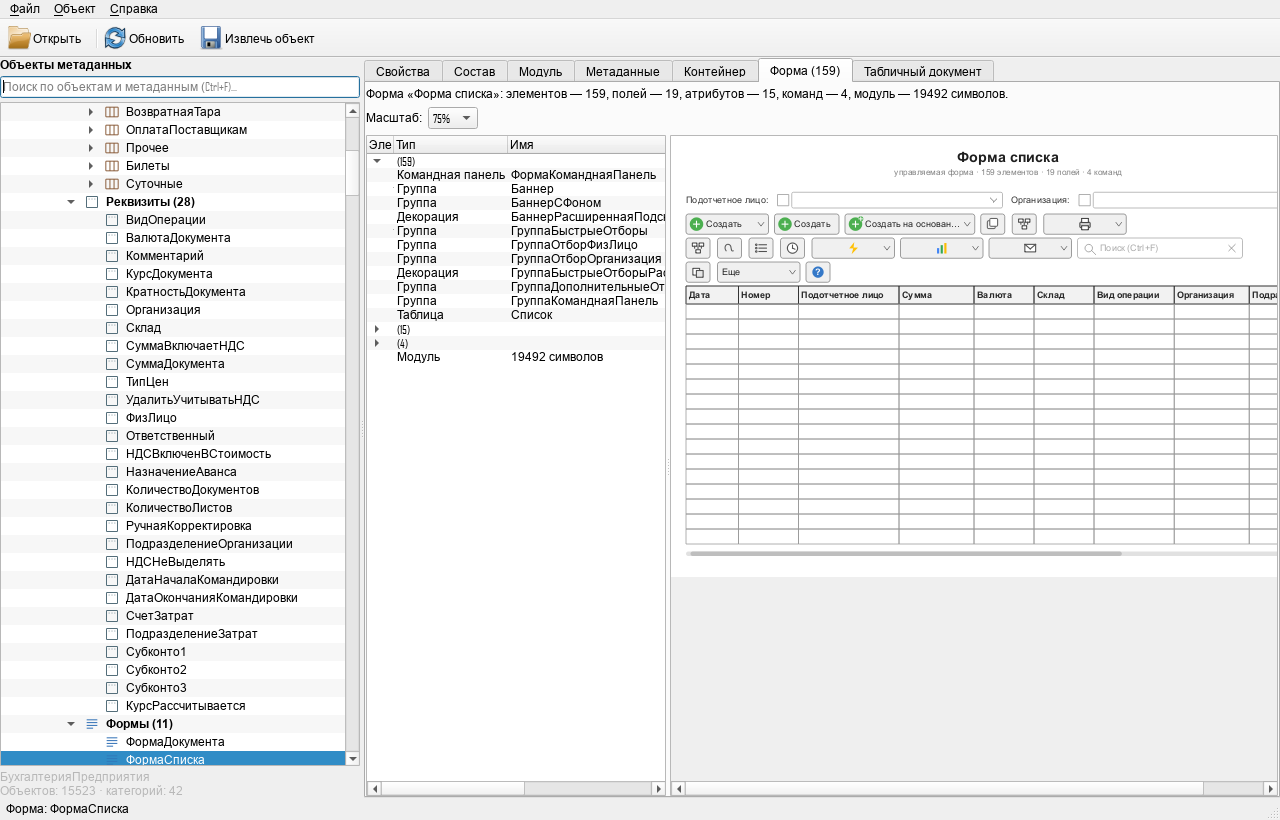
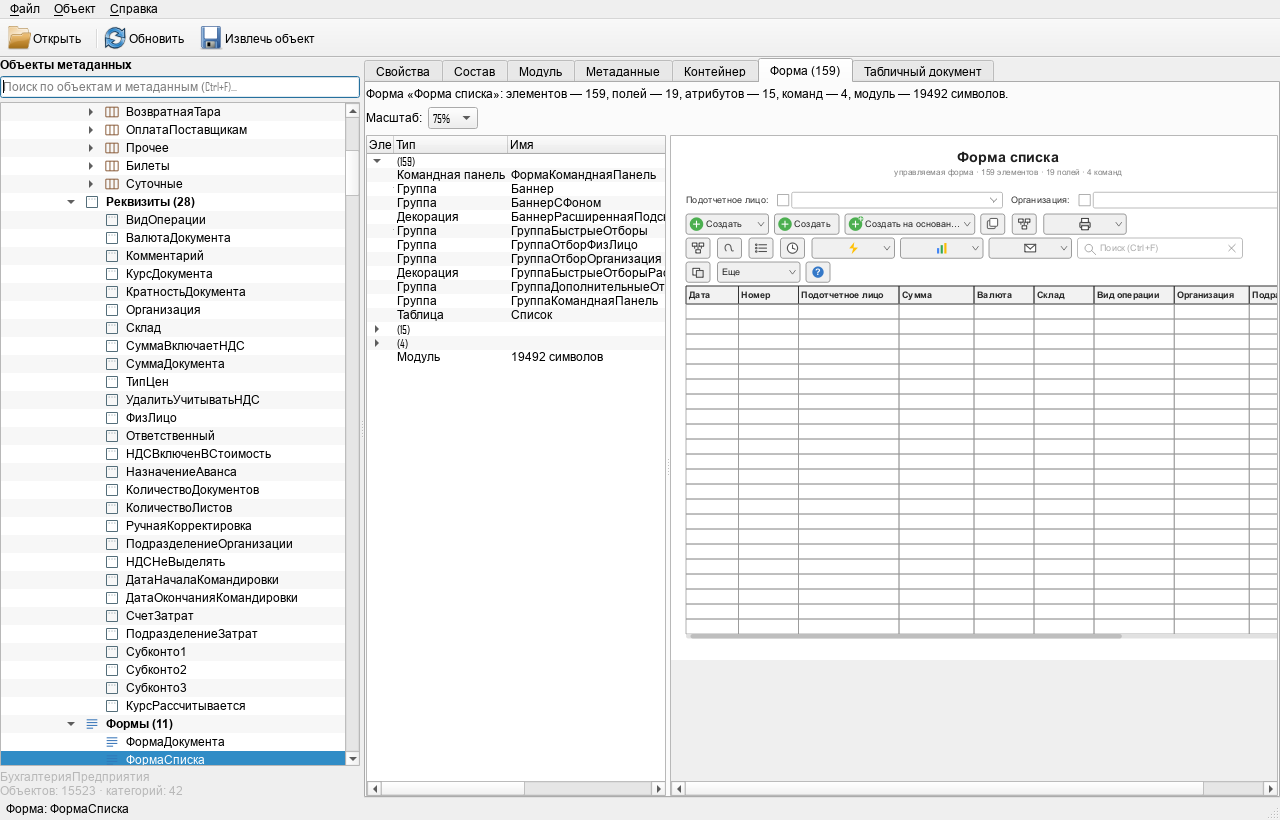
feat(forms): list form table fills the form height
- list form tables use 470 px instead of 360, closer to the runtime form
- docs and screenshot updated

Changed region(s): [[0.5312, 0.6707, 1.0, 0.7927]]

diff --git a/src/gui/FormView.cpp b/src/gui/FormView.cpp
@@ -341,7 +341,8 @@ private:
                 return 0.0;
             return item.heightUnits > 0 ? item.heightUnits * 10.0 : 19.0;
         case Type::Table:
-            return 360.0;
+            // В форме списка таблица занимает основную часть формы.
+            return m_document.runtimeListCommands ? 470.0 : 360.0;
         case Type::Group: {
             if (item.groupKind == 1)
                 return 27.0;
@@ -767,8 +768,9 @@ private:
     {
         PreviewControl control;
         control.kind = PreviewControl::Kind::Table;
+        const double tableHeight = m_document.runtimeListCommands ? 470.0 : 360.0;
         control.rect = QRectF(rect.left(), rect.top(), rect.width(),
-                              std::min(rect.height(), 360.0));
+                              std::min(rect.height(), tableHeight));
         QVector<int> widthUnits;
         tableColumns(item, item.name, &control.columns, &widthUnits);
 
